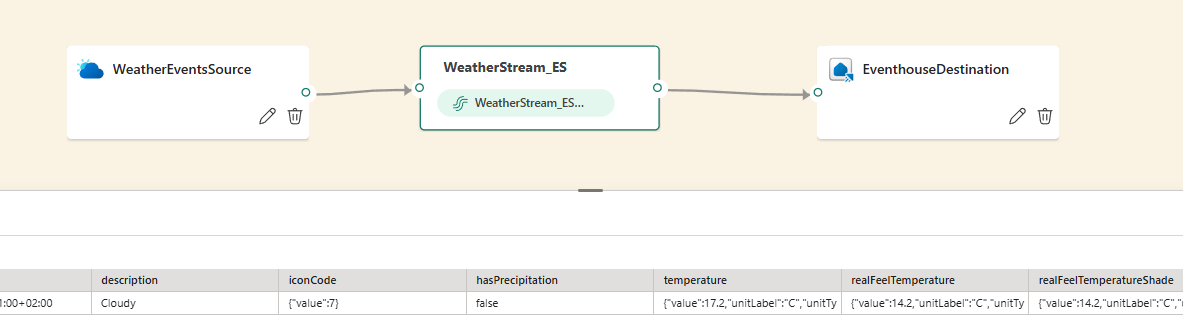
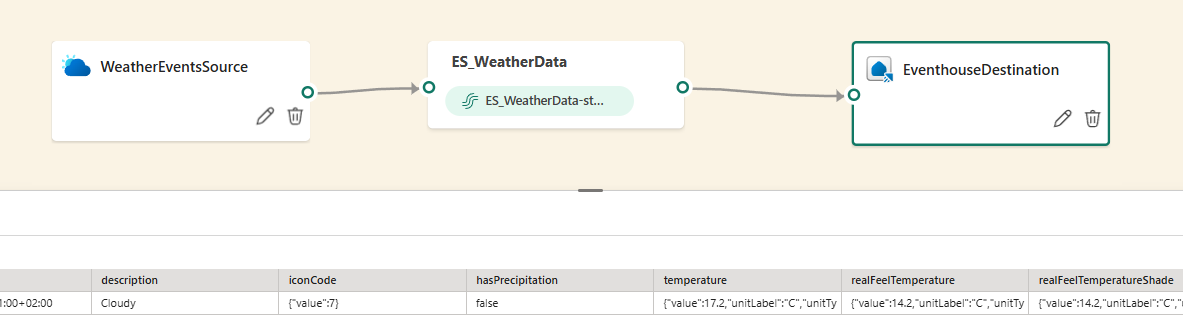
weather fixes

Changed region(s): [[0.2434, 0.1216, 0.9434, 0.4559], [0.0304, 0.1216, 0.2739, 0.4255], [0.213, 0.3343, 0.2739, 0.3951]]

diff --git a/docs/workshop.md b/docs/workshop.md
@@ -1306,13 +1306,13 @@ In this section, we will add real-time weather data events. These events are str
 
 ![alt text](assets/image_task07_step10.png)
 
-9. First, **select** `Direct ingestion`, not 'Event processing before ingestion'! So, we need to add a table mapping later on as seen in the information box. Second, **Give** this destination a proper 'name' like `EventhouseDestination`. Last, **Select** the Eventhouse and KQL Database we just created as the destination.
+9. First, **select** `Direct ingestion`, not 'Event processing before ingestion'! So, we need to add a table mapping later on as seen in the information box. Second, **Give** this destination a proper 'name' like `EventhouseDestination`. Last, **Select** the `EH_YCSneakerEventStore` Eventhouse and KQL Database as the destination.
 
 ![alt text](assets/image_task07_step11.png)
 
 10. **Save** the destination settings.
 
-11. If the Destination is not yet connected to the source, you see this error sign. In that case, just **connect** the `output point` of the 'WeatherStream_ES' to the `input point` of the EventhouseDestination.
+11. If the Destination is not yet connected to the source, you see this error sign. In that case, just **connect** the `output point` of the 'ES_WeatherData' to the `input point` of the EventhouseDestination.
 
 ![alt text](assets/image_task07_step12.png)
 
